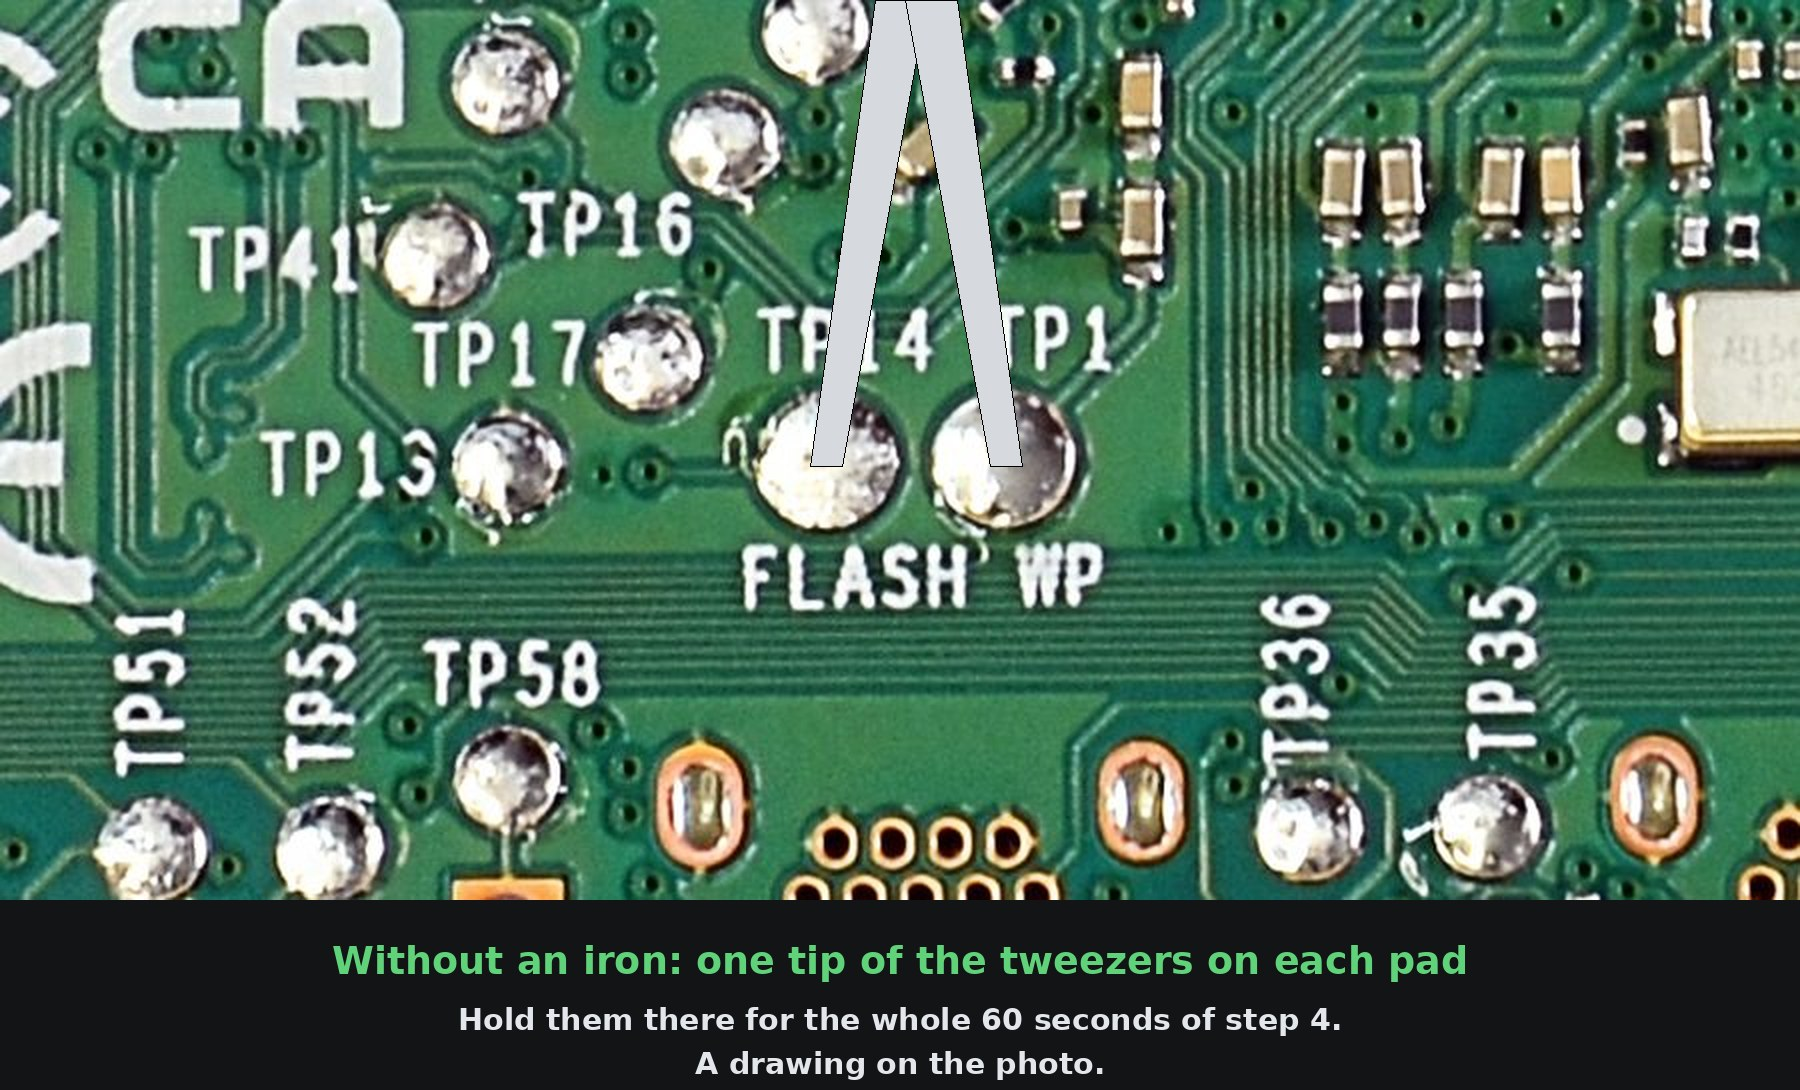
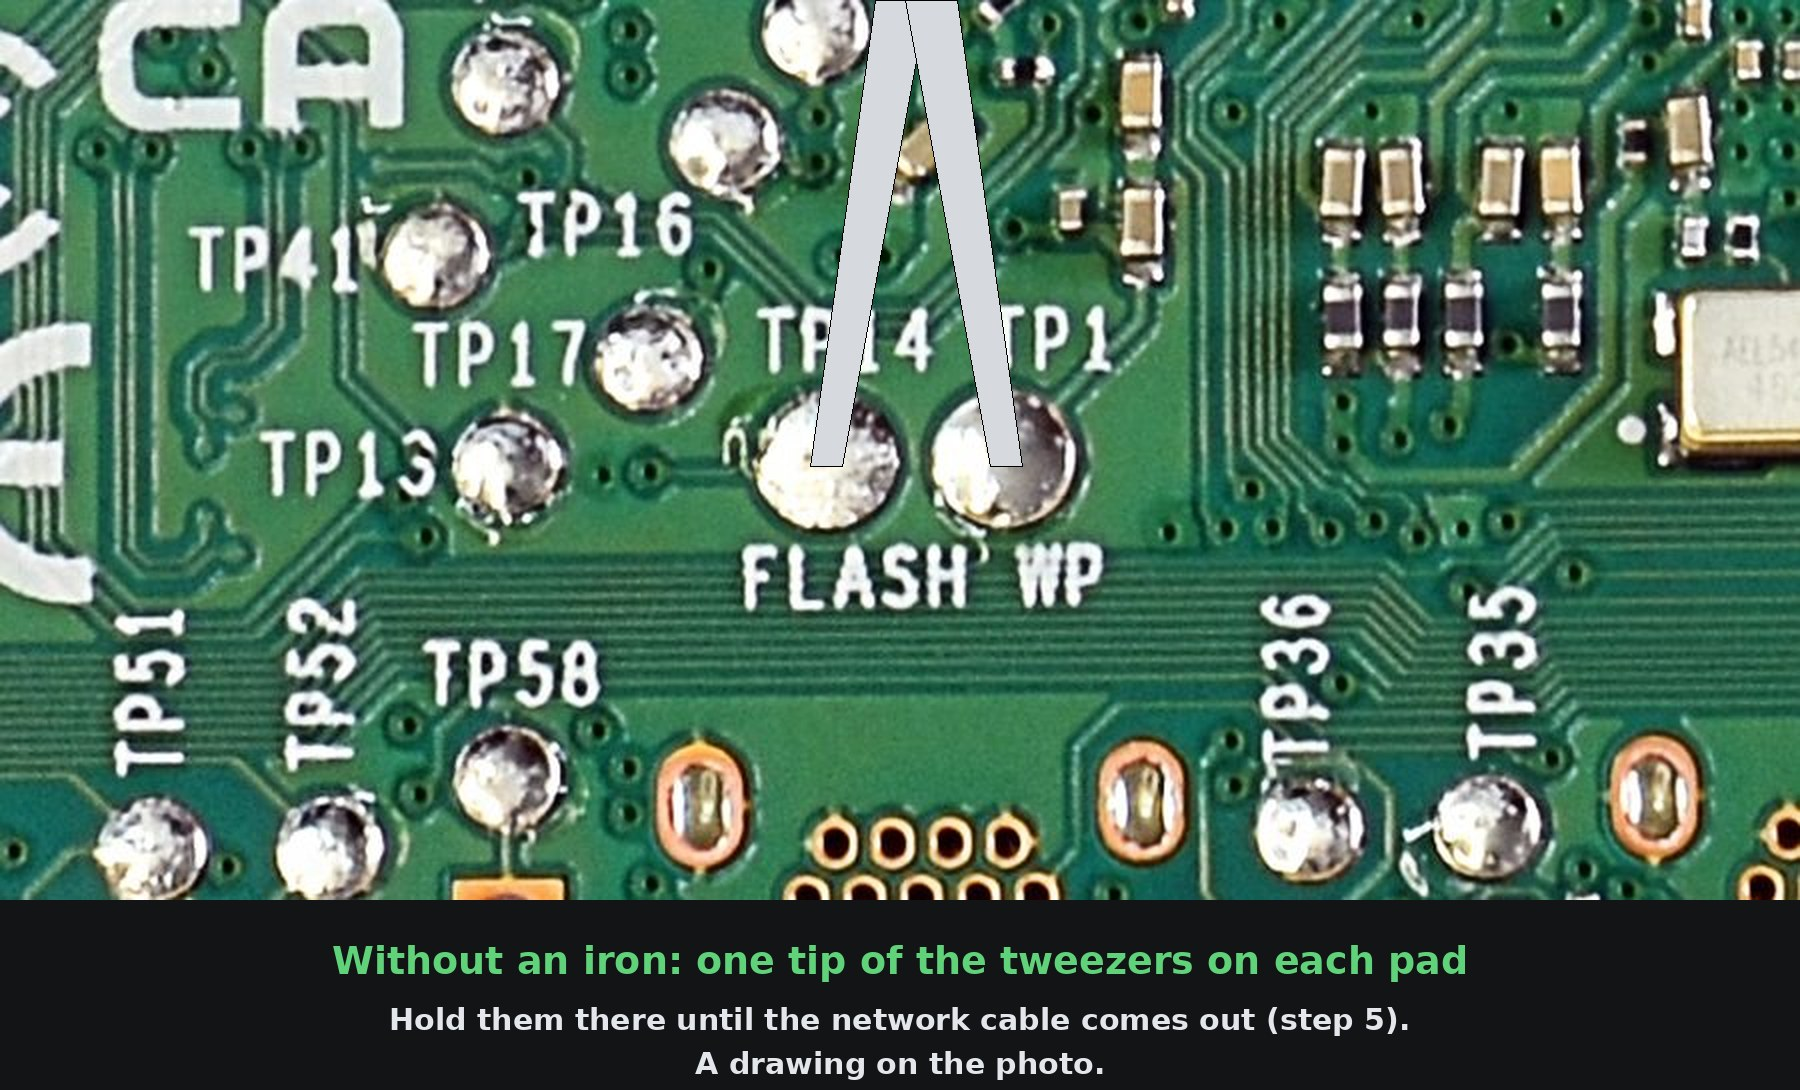
EEPROM step 4: the second reader review (tweezers caption redrawn: hold until the cable comes out; five minutes before going on with no sign; step 5 and the times paragraph say so)
Claude-Session: https://claude.ai/code/session_011T4WbG6WD7T2cy5FoUuUz8

Changed region(s): [[0.2178, 0.9046, 0.7778, 0.967]]

diff --git a/docs/setup/bootloader-eeprom/make_figures.py b/docs/setup/bootloader-eeprom/make_figures.py
@@ -164,7 +164,7 @@ def closeup(what, theme):
             d.polygon([(q[0] - 16, q[1] + 10), (q[0] + 16, q[1] + 10), (916 + (q[0] - 916) // 6 + 26, 0),
                        (916 + (q[0] - 916) // 6 - 26, 0)], fill=SILVER, outline=BLACK)
         note(d, (900, y0 + 60), "Without an iron: one tip of the tweezers on each pad", 38, good)
-        note(d, (900, y0 + 120), "Hold them there for the whole 60 seconds of step 4.", 30, plain)
+        note(d, (900, y0 + 120), "Hold them there until the network cable comes out (step 5).", 30, plain)
         note(d, (900, y0 + 164), "A drawing on the photo.", 30, plain)
     else:  # clear: the pads separate again
         for c in (tp14, tp1):

diff --git a/docs/setup/bootloader-eeprom.md b/docs/setup/bootloader-eeprom.md
@@ -47,7 +47,7 @@ You do not need this part to do the job.
   start there began. Neither Pi was watched between its two reads, so whether
   that was its first start on the normal port is not known. The Pi of 3 Oct
   read locked when next looked at.
-- **The times in the steps** (60 seconds for the write, two minutes for the
+- **The times in the steps** (at least 60 seconds and at most five minutes for the write, two minutes for the
   start, five minutes before calling a Pi gone) are generous round figures of
   ours, not measurements of the write. The two minutes of step 5 cover the
   40 and 100 seconds above.

diff --git a/docs/setup/bootloader-eeprom-pi5-step-4.md b/docs/setup/bootloader-eeprom-pi5-step-4.md
@@ -76,7 +76,7 @@ Photo: Suyash Dwivedi, [Wikimedia Commons](https://commons.wikimedia.org/wiki/Fi
    pattern of long and short flashes, Raspberry Pi calls that an error code.
    Write down the pattern and still go on to step 5: on one of our runs a
    pattern of 3 long and 3 short came after a write that had worked, and step 6
-   tells which it was. If after two minutes it does neither, go on to step 5
+   tells which it was. If after five minutes it does neither, go on to step 5
    as well, and let step 6 tell.
 
    Whether the write worked is checked in

diff --git a/docs/setup/bootloader-eeprom-pi5-step-5.md b/docs/setup/bootloader-eeprom-pi5-step-5.md
@@ -1,7 +1,7 @@
 # Bootloader EEPROM on a Raspberry Pi 5: step 5, cable out, card out, bridge off, cable in
 
 **You are upgrading a locked Raspberry Pi 5, and the green light of
-[step 4](bootloader-eeprom-pi5-step-4.md) has flashed rapidly (or you noted its pattern): now you take the card and
+[step 4](bootloader-eeprom-pi5-step-4.md) has flashed rapidly (or you noted its pattern, or five minutes passed with neither): now you take the card and
 the bridge off and put the Pi back on its port.**
 
 ```{image} bootloader-eeprom/cable-out.svg
